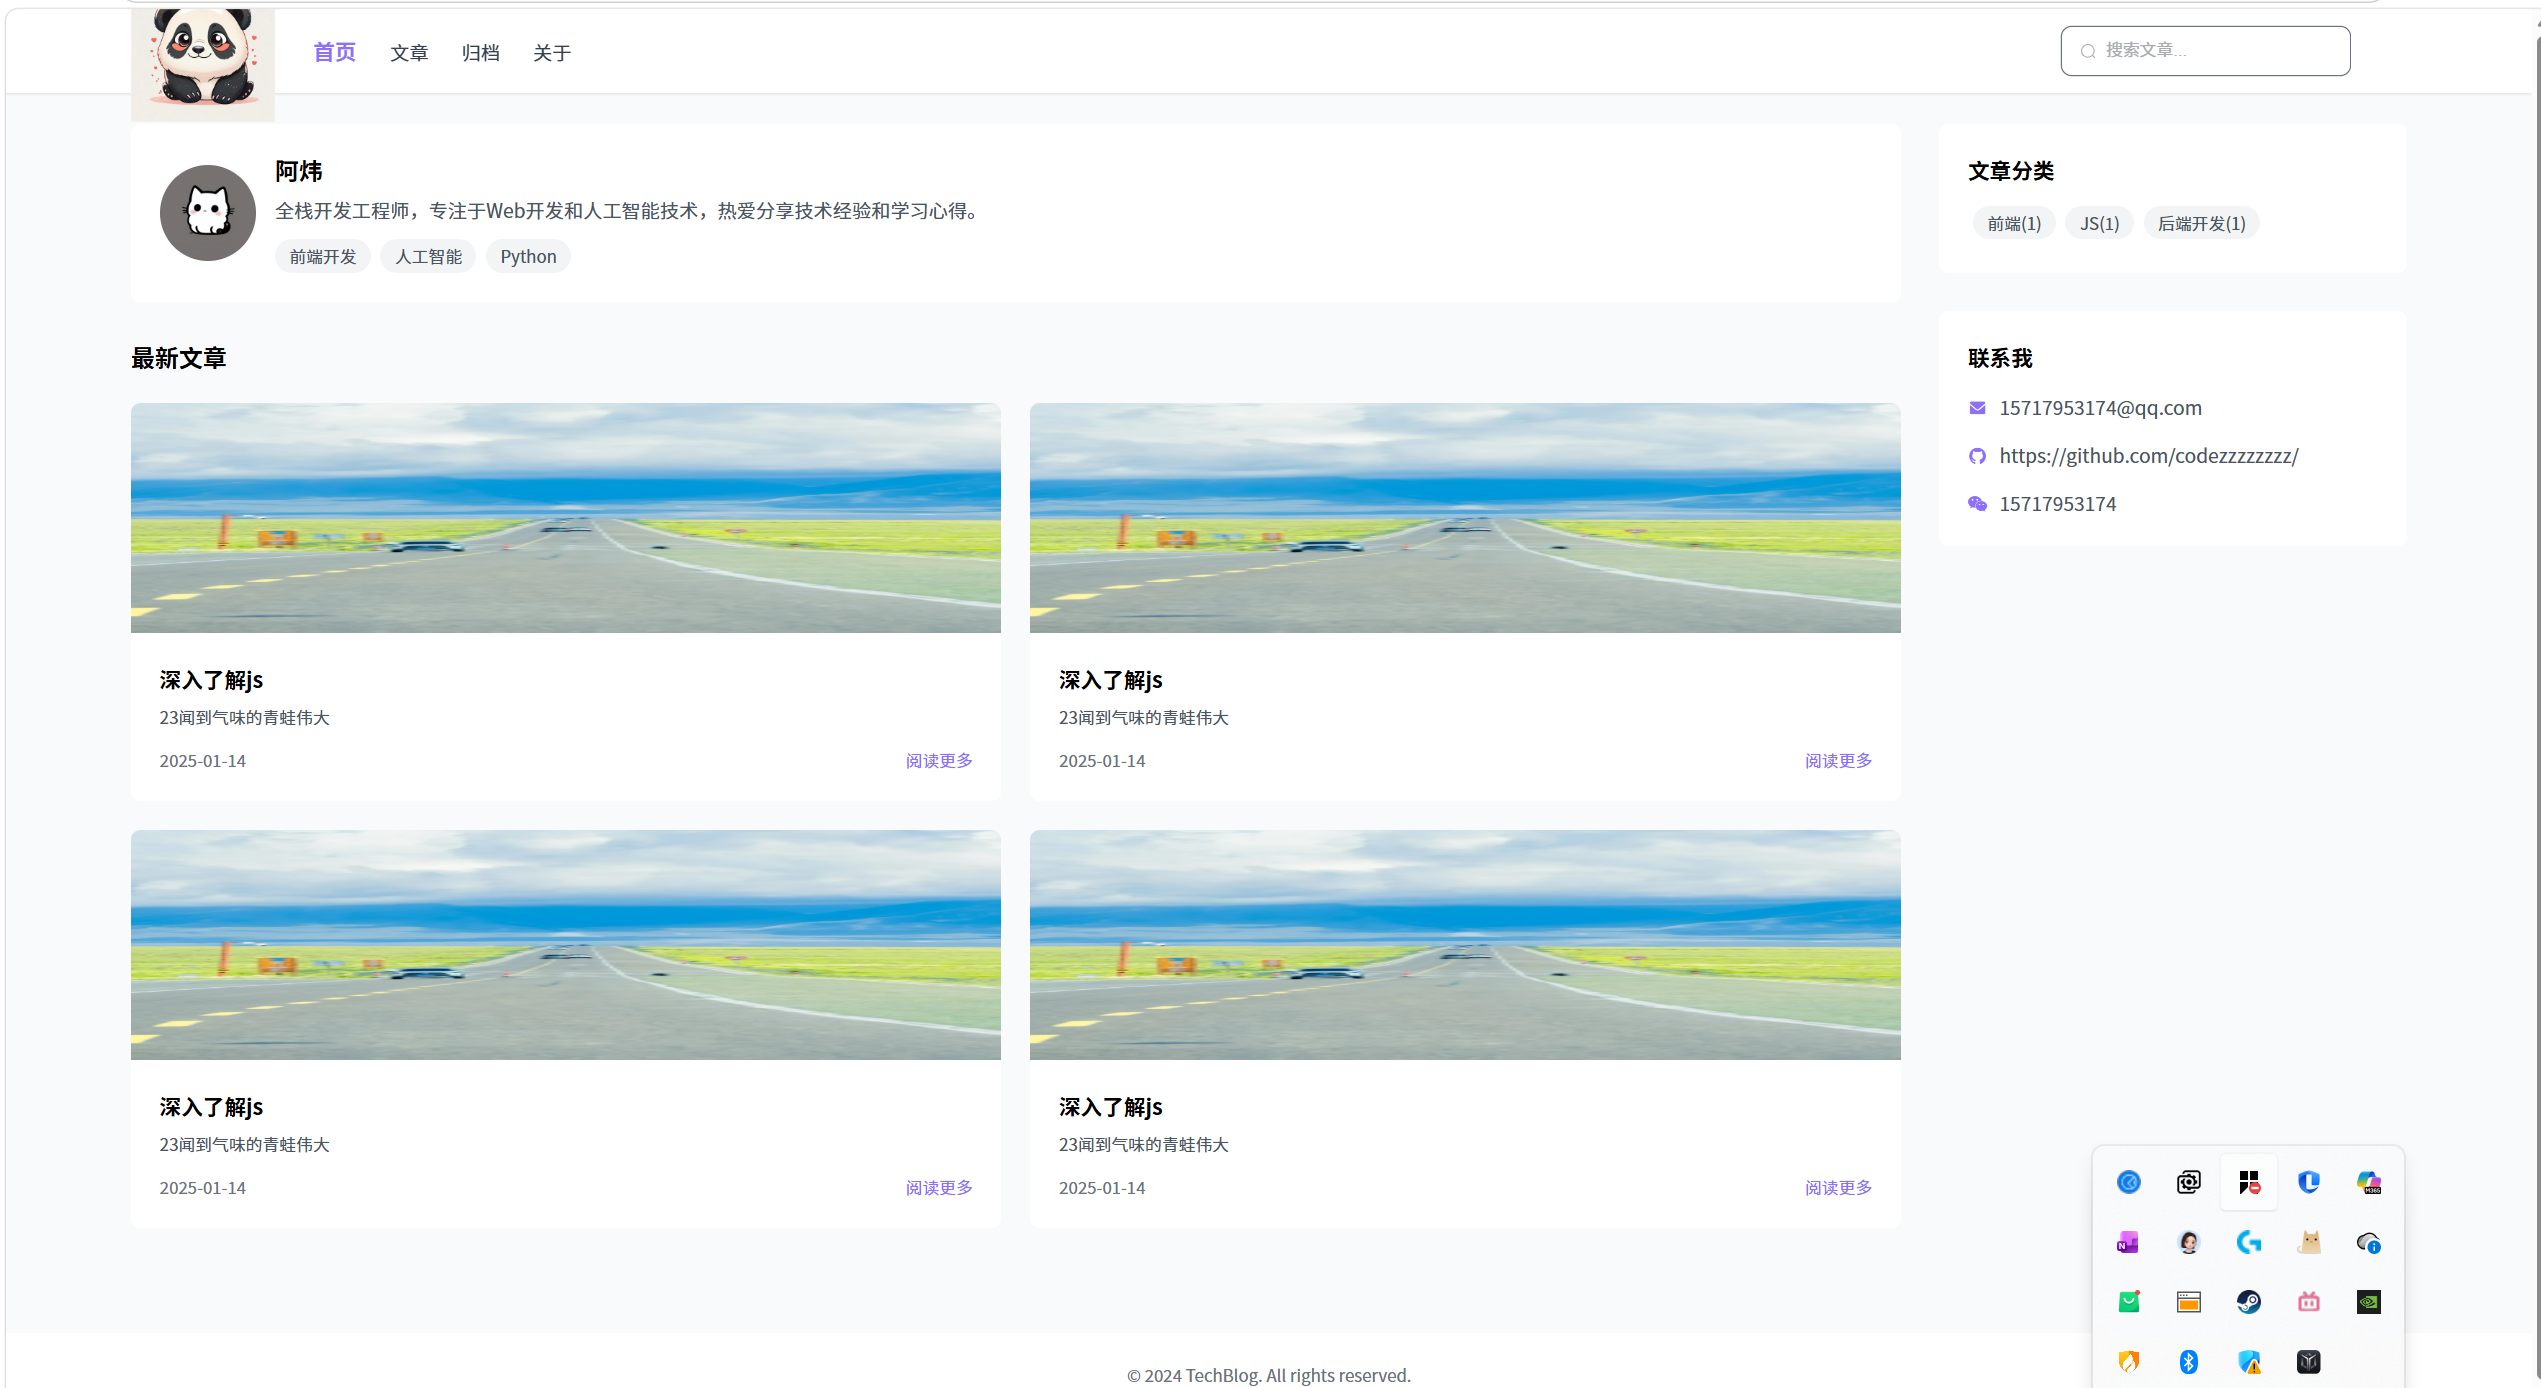
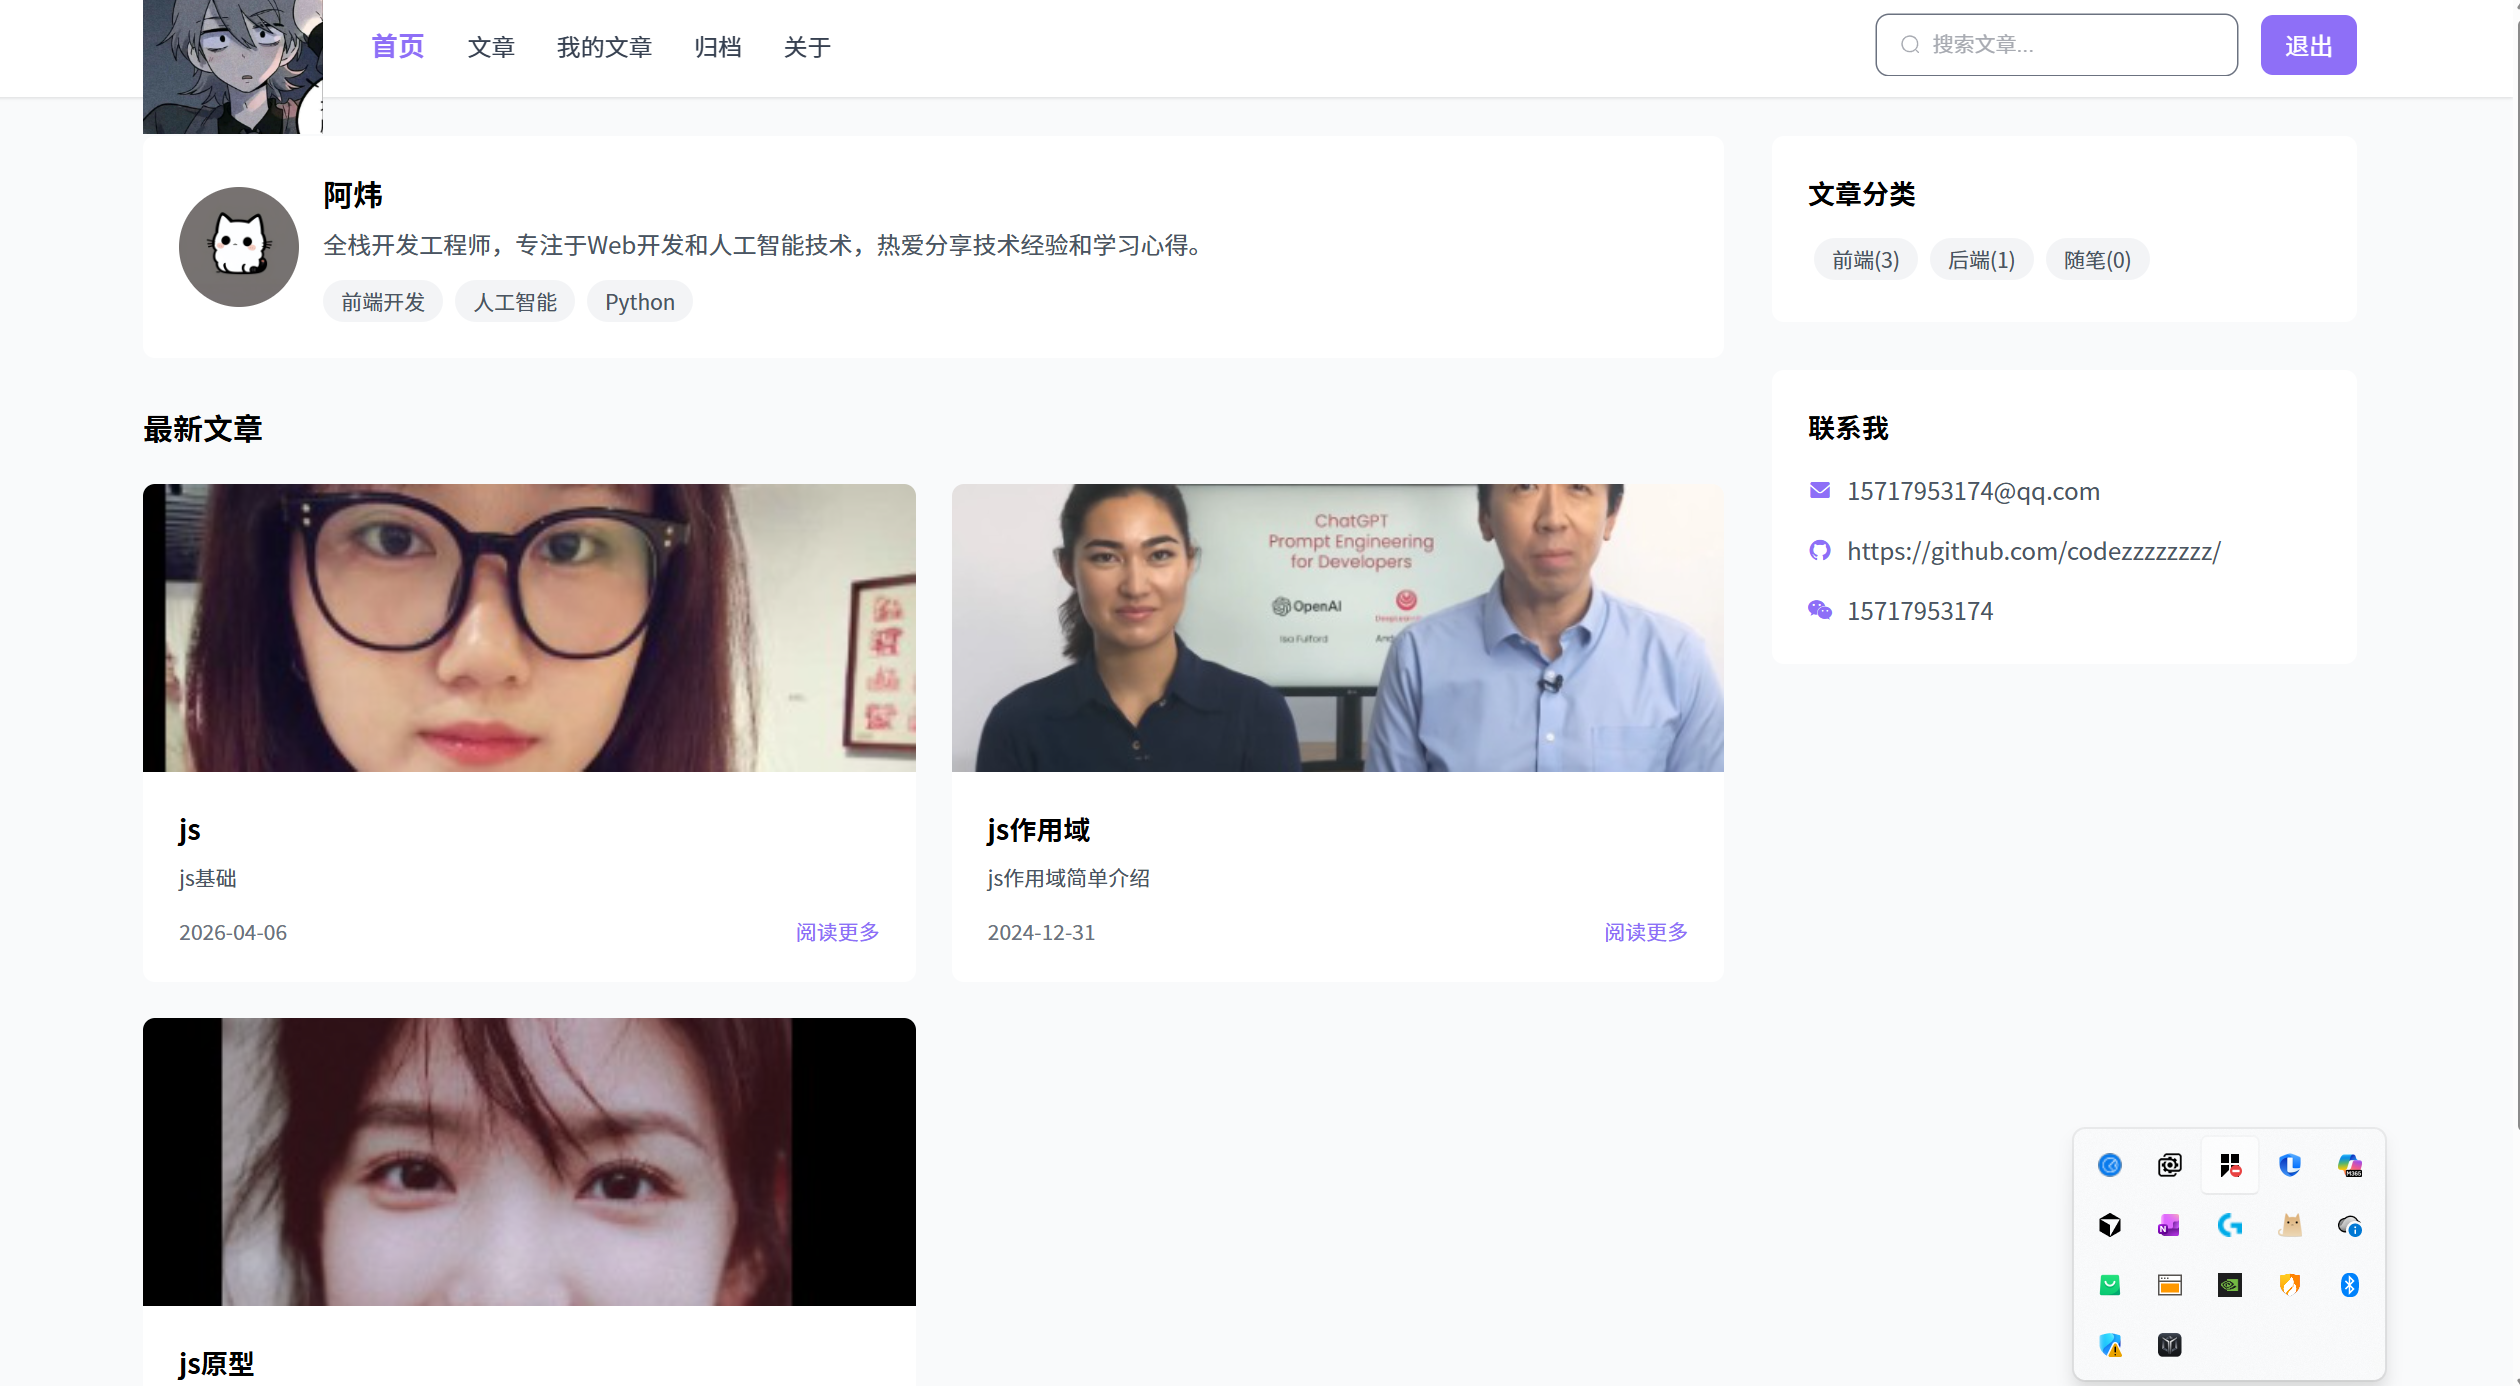
readme修改

diff --git a/readme.md b/readme.md
@@ -8,9 +8,12 @@
 
 
 ![首页截图](./screenshots/home.png)
-![文章详情截图](./screenshots/artcle_detail.png)
+![文章详情截图](./screenshots/artcle_detail1.png)
+![文章详情截图](./screenshots/artcle_detail2.png)
+![我的文章](./screenshots/myarticles.png)
+![我的文章编辑](./screenshots/article.png)
 ![登入](./screenshots/login.png)
-![文章列表](./screenshots/article.png)
+![文章列表](./screenshots/artcles.png)
 
 ---
 
@@ -24,6 +27,8 @@
 - **HTTP 客户端**: Axios
 - **样式预处理**: Less
 - **自动导入**: unplugin-auto-import + unplugin-vue-components
+- **Markdown**: marked + DOMPurify（编辑与详情页安全渲染）
+- **图片裁剪**: Cropper.js 2.x（封面与正文插图）
 
 ### 后端
 - **运行环境**: Node.js
@@ -32,9 +37,10 @@
 - **数据库**: MySQL 8+
 - **数据库驱动**: mysql2 (Promise API)
 - **身份认证**: JWT (jsonwebtoken)
+- **文件上传**: multer、koa-static
 - **XSS 防护**: DOMPurify + JSDOM
 - **跨域处理**: @koa/cors
-- **请求体解析**: @koa/bodyparser
+- **请求体解析**: @koa/bodyparser（含 DELETE 等方法的 JSON 体）
 - **环境变量**: dotenv
 
 ### 部署
@@ -47,14 +53,17 @@
 
 ### 文章管理
 - 📝 文章列表展示（分页）
-- 📖 文章详情阅读
+- 📖 文章详情阅读（Markdown 渲染）
+- ✏ Markdown 分栏编辑、实时预览
+- 🖼 封面与正文图片上传与裁剪
 - 🏷 文章分类与标签管理
 - ⏱ 文章归档（按时间线）
 - 🔥 最新文章推荐
+- 📂 我的文章（创建、编辑、删除）
 
 ### 用户系统
 - 👤 用户注册 / 登录
-- 🔐 JWT Token 身份认证
+- 🔐 JWT Token 身份认证（请求头 `Authorization` 携带令牌）
 - 🔒 MD5 密码加密
 - 🎨 个人信息展示
 
@@ -65,7 +74,7 @@
 
 ### 安全特性
 - 🛡 XSS 攻击防护（DOMPurify）
-- 🔐 SQL 注入防护（参数化查询）
+- 🔐 关键写操作使用参数化查询；部分读操作仍需注意 SQL 拼接风险
 - 🔑 JWT 无状态认证
 
 ---
@@ -81,7 +90,7 @@
 
 ```bash
 git clone https://github.com/你的用户名/blog.git
-cd blog
+cd blog-master
 ```
 
 ### 2. 数据库配置
@@ -125,26 +134,30 @@ npm install
 npm run dev
 ```
 
-前端服务将在 `http://localhost:5173` 启动（或 Vite 分配的其他端口）。
+前端开发服务默认 `http://localhost:8083`（见 `blog-client/vite.config.js`，端口可改）。  
+生产构建后 Axios `baseURL` 为 `/api`，需由 Nginx 反向代理到后端。
 
 ### 5. 测试账号
 
 - 用户名: `admin`
 - 密码: `123456`
 
+（以 `init-db.sql` 中数据为准，上线前请修改默认密码。）
+
 ---
 
 ## 📁 项目结构
 
 ```
-blog/
+blog-master/
 ├── blog-client/              # 前端项目
 │   ├── src/
 │   │   ├── api/             # API 接口封装
 │   │   ├── assets/          # 静态资源
 │   │   ├── components/      # 公共组件
 │   │   ├── router/          # 路由配置
-│   │   ├── utils/           # 工具函数
+│   │   ├── styles/          # 全局样式（如 Markdown 正文）
+│   │   ├── utils/           # 工具函数（如 Markdown 渲染）
 │   │   ├── views/           # 页面组件
 │   │   ├── App.vue
 │   │   └── main.js
@@ -153,17 +166,17 @@ blog/
 │   └── vite.config.js
 │
 ├── blog-server/              # 后端项目
-│   ├── config/               # 数据库配置
-│   ├── controllers/          # 业务逻辑层
-│   ├── router/               # 路由定义
-│   ├── utils/                # 工具函数（JWT、XSS）
-│   ├── index.js              # 入口文件
-│   ├── init-db.sql           # 数据库初始化脚本
+│   ├── config/              # 数据库配置
+│   ├── controllers/         # 业务逻辑层（index.js）
+│   ├── router/              # 路由定义
+│   ├── utils/               # 工具函数（JWT、XSS 等）
+│   ├── uploads/             # 用户上传文件
+│   ├── index.js             # 入口文件
+│   ├── init-db.sql          # 数据库初始化脚本
 │   ├── package.json
-│   └── .env                  # 环境变量（需自行创建）
+│   └── .env                 # 环境变量（需自行创建）
 │
-├── deploy.md                 # 部署指南
-└── README.md
+└── readme.md
 ```
 
 ---
@@ -183,23 +196,24 @@ blog/
 
 ## 📦 部署上线
 
-详细部署文档请查看 [deploy.md](./deploy.md)，包含：
-- 服务器环境安装（Node.js、MySQL、Nginx）
-- 后端 PM2 进程管理
-- 前端打包与 Nginx 托管
-- Nginx 反向代理配置
-- HTTPS 配置
+1. 前端：`cd blog-client && npm run build`，将 `dist/` 部署到静态资源目录。  
+2. 后端：`cd blog-server`，使用 PM2 等方式常驻 `node index.js`。  
+3. Nginx：将前端静态站点与 `/api` 反向代理到 Node 服务（与开发环境 `baseURL` 约定一致）。  
+4. 生产环境请修改 JWT 密钥、数据库密码等敏感配置，勿提交 `.env`。
+
+如需单独文档，可在仓库根目录自行补充 `deploy.md`（例如 PM2、HTTPS 等细则）。
 
 ---
 
 ## 💡 技术亮点
 
 1. **数据库连接池**：使用 mysql2 连接池优化数据库性能
-2. **XSS 防护**：DOMPurify + JSDOM 过滤用户输入
+2. **XSS 防护**：DOMPurify + JSDOM 过滤用户输入；前端详情页对 HTML 输出做净化
 3. **JWT 认证**：无状态身份认证机制
-4. **参数化查询**：防止 SQL 注入攻击
+4. **参数化查询**：创建/更新文章等写操作使用参数化，降低 SQL 注入风险
 5. **前后端分离**：清晰的架构设计
 6. **RESTful API**：规范的接口设计
+7. **Markdown 工作流**：存储 Markdown，阅读端统一渲染与安全过滤
 
 ---
 
@@ -211,6 +225,7 @@ blog/
 - 使用 Element Plus 快速构建 UI
 - 数据库连接池管理，提升性能
 - 完善的错误处理机制
+- 文章编辑采用 Markdown + 图片裁剪上传；详情页 marked + DOMPurify 渲染
 
 ---
 
